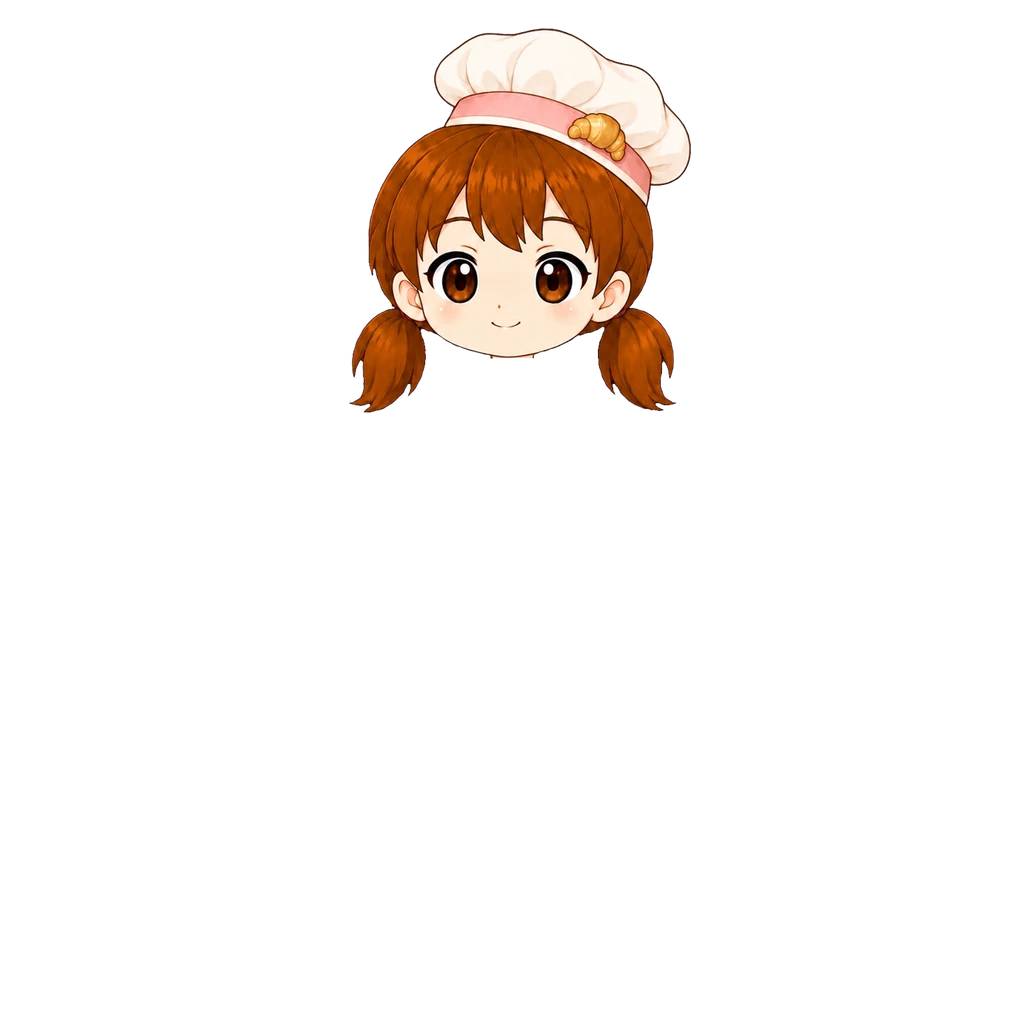
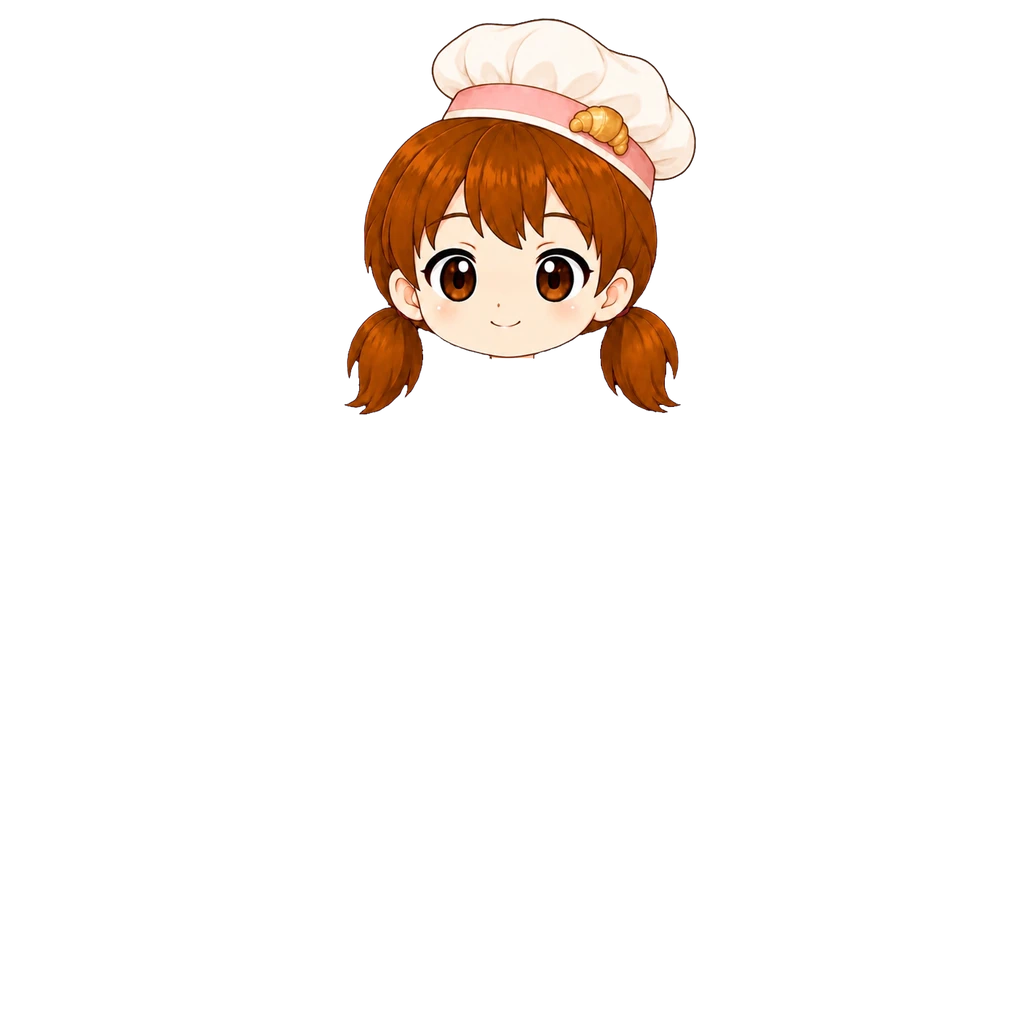
요리사 모자(여아) 3% 크게 (#879)
턱·얼굴 가운데 고정으로 배율 0.66→0.6798. img ?v=2.

Claude-Session: https://claude.ai/code/session_018maNuYqDfFyRSe9uKpZhPR

Changed region(s): [[0.3125, 0.0, 0.6875, 0.4062]]

diff --git a/src/data/avatarEquipment.js b/src/data/avatarEquipment.js
@@ -233,8 +233,9 @@ export const AVATAR_CATALOG = [
   { id: "hat_post_girl",  slot: "hat",   label: "우편부 모자", emoji: "💌", price:DECOR_PRICE.rare, rarity: "rare", theme: "common", forGender: "girl", hidesHead: true, img: "assets/avatar/hat/post-cap-girl.webp?v=4", thumb: "assets/avatar/thumb/hat_post_girl.webp" },
   /* 요리사 모자 [2026-10-04] — 여아. 흰 요리사 모자(분홍 띠·크루아상 장식) + 얼굴·양갈래 머리 한 장(사용자 원화 520×584). 핑크 파티시에 옷과 짝.
      들꽃 머리띠와 같은 방식(hidesHead) — 얼굴 템플릿 매칭(일치 0.924)으로 배율 0.660, 원점 (348,28). 아래는 자르지 않음.
-     탑재 상자 (349,28,691,413). */
-  { id: "hat_chef_girl",  slot: "hat",   label: "요리사 모자", emoji: "👩🍳", price:DECOR_PRICE.rare, rarity: "rare", theme: "common", forGender: "girl", hidesHead: true, img: "assets/avatar/hat/chef-hat-girl.webp", thumb: "assets/avatar/thumb/hat_chef_girl.webp" },
+     탑재 상자 (349,28,691,413).
+     [2026-10-04] 사용자 조정 — 3% 크게(배율 0.6798, 턱·얼굴 가운데 고정, 원점 (343,18)). 탑재 상자 (344,18,696,415). img ?v=2. */
+  { id: "hat_chef_girl",  slot: "hat",   label: "요리사 모자", emoji: "👩🍳", price:DECOR_PRICE.rare, rarity: "rare", theme: "common", forGender: "girl", hidesHead: true, img: "assets/avatar/hat/chef-hat-girl.webp?v=2", thumb: "assets/avatar/thumb/hat_chef_girl.webp" },
   /* 남아 사파리 모자 [2026-10-02] — 모자+얼굴 한 장(사용자 원화)이라 hidesHead: 쓰면 머리카락 머리 장이 빠지고
      민머리 위에 얹힌다(베이스 v10 구조). 얼굴(눈~입) 템플릿 매칭으로 맞춤(배율 0.4065 · 일치 0.970).
      원화에 달린 목은 z50 이라 높은 깃(우주복·후드·도토리)을 덮어서 기본 머리 장처럼 y404 에서 잘랐다. */

diff --git a/art-src/README.md b/art-src/README.md
@@ -606,4 +606,4 @@ bbox로 여백만 잘라내고 배포본은 높이 480px로 축소했다(전부 
 | summer-visor-boy-src.webp | **썸머 썬캡 원화 남아 — 모자+얼굴 한 장 (사용자 원화 2026-10-04)** — 520×456 투명 배경, 주황 썬캡(조개 장식). hidesHead 로 기본 머리를 대신한다. 얼굴 템플릿 매칭(일치 0.953)으로 배율 0.676·원점 (339,83), y404 아래 자름. 탑재 상자 (339,83,691,391). **[2026-10-04 조정]** 2% 크게(0.6895)·아래로 5, 원점 (335,82) · img ?v=2. 다시 아래로 3(원점 (335,85)) · img ?v=3. 상점 그림은 원화를 세로 160px 로 | avatar/hat/summer-visor-boy.webp · thumb/hat_visor_boy.webp |
 | pirate-hat-boy-src.webp | **해적 모자 원화 남아 — 모자+얼굴 한 장 (사용자 원화 2026-10-04)** — 574×475 투명 배경, 남색 삼각 해적모(금 테두리·해골). hidesHead 로 기본 머리를 대신한다. 얼굴 템플릿 매칭(일치 0.972)으로 배율 0.712·원점 (318,58), y404 아래 자름. 탑재 상자 (318,58,727,396). **[2026-10-04 조정]** 아래로 4·왼쪽 1(원점 (317,62)) · img ?v=2. 상점 그림은 원화를 세로 160px 로 | avatar/hat/pirate-hat-boy.webp · thumb/hat_pirate_boy.webp |
 | post-cap-girl-src.webp | **우편부 모자 원화 여아 — 모자+얼굴 한 장 (사용자 원화 2026-10-04)** — 파란 우편모(날개 편지 배지) + 얼굴·양갈래 머리. hidesHead 로 여아 기본 머리를 대신한다. 얼굴 템플릿 매칭(일치 0.916)으로 배율 0.668·원점 (351,68), 아래는 자르지 않음. 탑재 상자 (351,68,678,418). **[2026-10-04 조정]** 3% 크게(0.688)·오른쪽 1, 원점 (347,60) · img ?v=2. 아래로 1(원점 (347,61)) · img ?v=3. 1% 크게(0.6949, 원점 (345,58)) · img ?v=4. 상점 그림은 원화를 세로 160px 로 | avatar/hat/post-cap-girl.webp · thumb/hat_post_girl.webp |
-| chef-hat-girl-src.webp | **요리사 모자 원화 여아 — 모자+얼굴 한 장 (사용자 원화 2026-10-04)** — 흰 요리사 모자(분홍 띠·크루아상 장식) + 얼굴·양갈래 머리. hidesHead 로 여아 기본 머리를 대신한다. 얼굴 템플릿 매칭(일치 0.924)으로 배율 0.660·원점 (348,28), 아래는 자르지 않음. 탑재 상자 (349,28,691,413). 상점 그림은 원화를 세로 160px 로 | avatar/hat/chef-hat-girl.webp · thumb/hat_chef_girl.webp |
+| chef-hat-girl-src.webp | **요리사 모자 원화 여아 — 모자+얼굴 한 장 (사용자 원화 2026-10-04)** — 흰 요리사 모자(분홍 띠·크루아상 장식) + 얼굴·양갈래 머리. hidesHead 로 여아 기본 머리를 대신한다. 얼굴 템플릿 매칭(일치 0.924)으로 배율 0.660·원점 (348,28), 아래는 자르지 않음. 탑재 상자 (349,28,691,413). **[2026-10-04 조정]** 3% 크게(0.6798, 원점 (343,18)) · img ?v=2. 상점 그림은 원화를 세로 160px 로 | avatar/hat/chef-hat-girl.webp · thumb/hat_chef_girl.webp |
